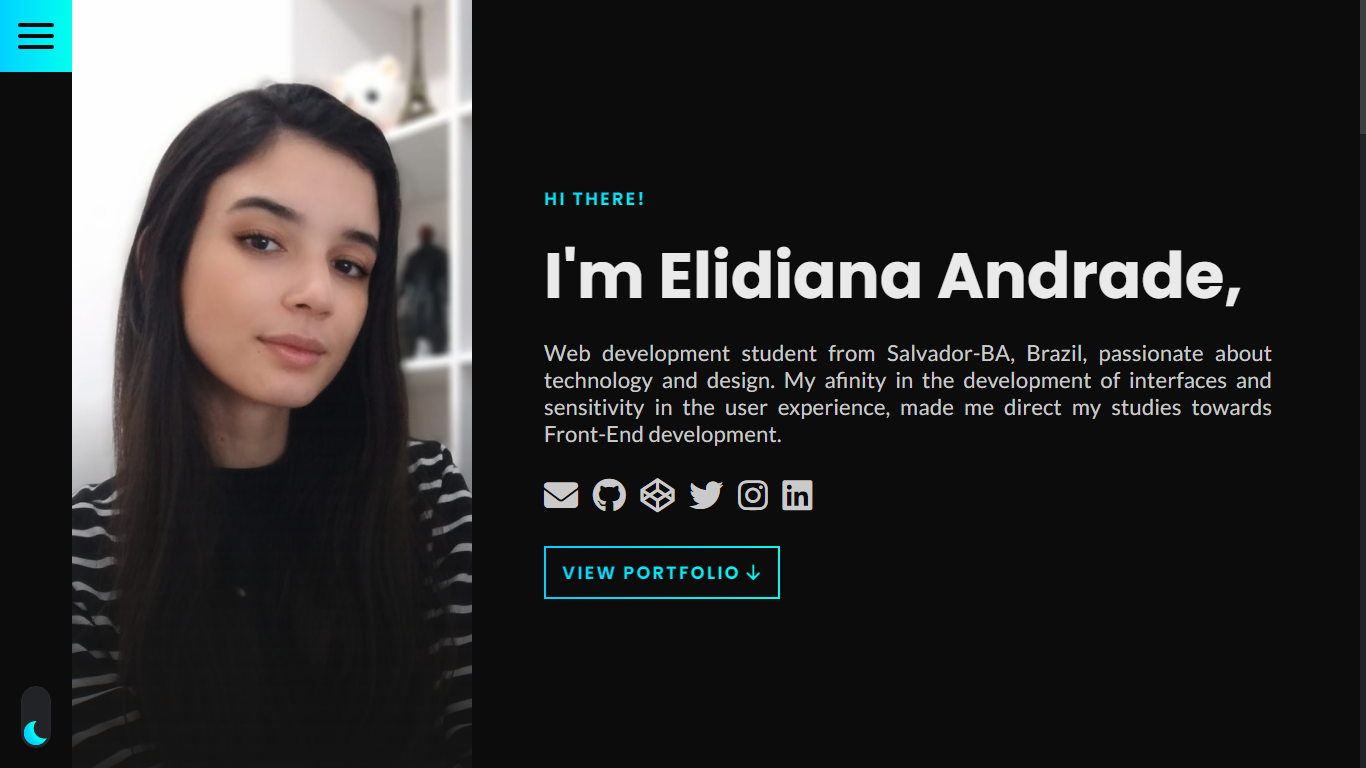
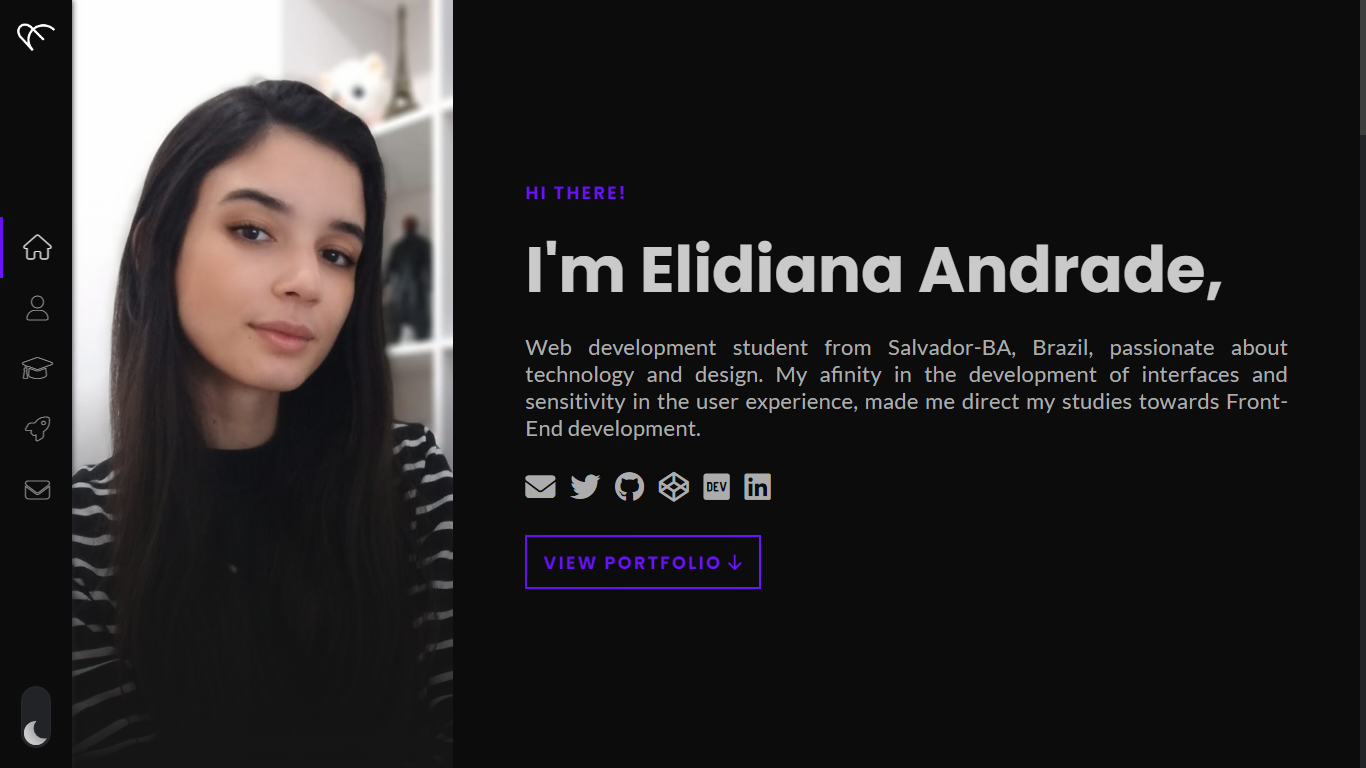
intro

Changed region(s): [[0.0, 0.0, 0.9531, 0.9688], [0.0, 0.0, 0.0615, 0.0938], [0.3075, 0.875, 0.3382, 0.9062]]

diff --git a/assets/style/dark-mode-main.css b/assets/style/dark-mode-main.css
@@ -344,9 +344,9 @@ input:checked + .slider:before { /* sun icon */
 }
 
 .intro-content1 {
-  width: 30%;
+  width: 0;
   height: 100%;
-  background: linear-gradient(rgba(21,21,21,0), rgba(21,21,21,0), rgba(21,21,21) 100%), url('../img/photo-intro.jpg') no-repeat center;
+  background: linear-gradient(rgba(21,21,21,0), rgba(21,21,21,0), rgba(21,21,21) 100%), url('') no-repeat center;
   background-size: cover;
   margin: 0 4.5rem;
 }
@@ -354,7 +354,7 @@ input:checked + .slider:before { /* sun icon */
 .intro-content2 {
   display: flex;
   flex-direction: column;
-  width: 60%;
+  width: 55%;
   margin-right: 4.5rem;
 }
 

diff --git a/assets/style/responsive.css b/assets/style/responsive.css
@@ -315,8 +315,7 @@
         height: 100%;
     }
     .intro-content1 {
-        width: 100%;
-        height: 30rem;
+        width: 0%;
         margin: 3rem 0 4rem 0;
     }
 
@@ -325,6 +324,7 @@
         flex-direction: column;
         justify-content: center;
         align-items: center;
+        margin-top: 4rem !important;
     }
 
     .intro-content2 .intro-title{

diff --git a/README.md b/README.md
@@ -18,7 +18,8 @@ Portfolio using HTML, CSS3 and pure JavaScript for learning purposes.
 ## ⚙ Functionalities
 - [x] Light and dark mode;
 - [x] Menu sidebar;
-- [x] Tabbed Menu.
+- [x] Tabbed Menu;
+- [x] Carousel.
 
 <br>
 
